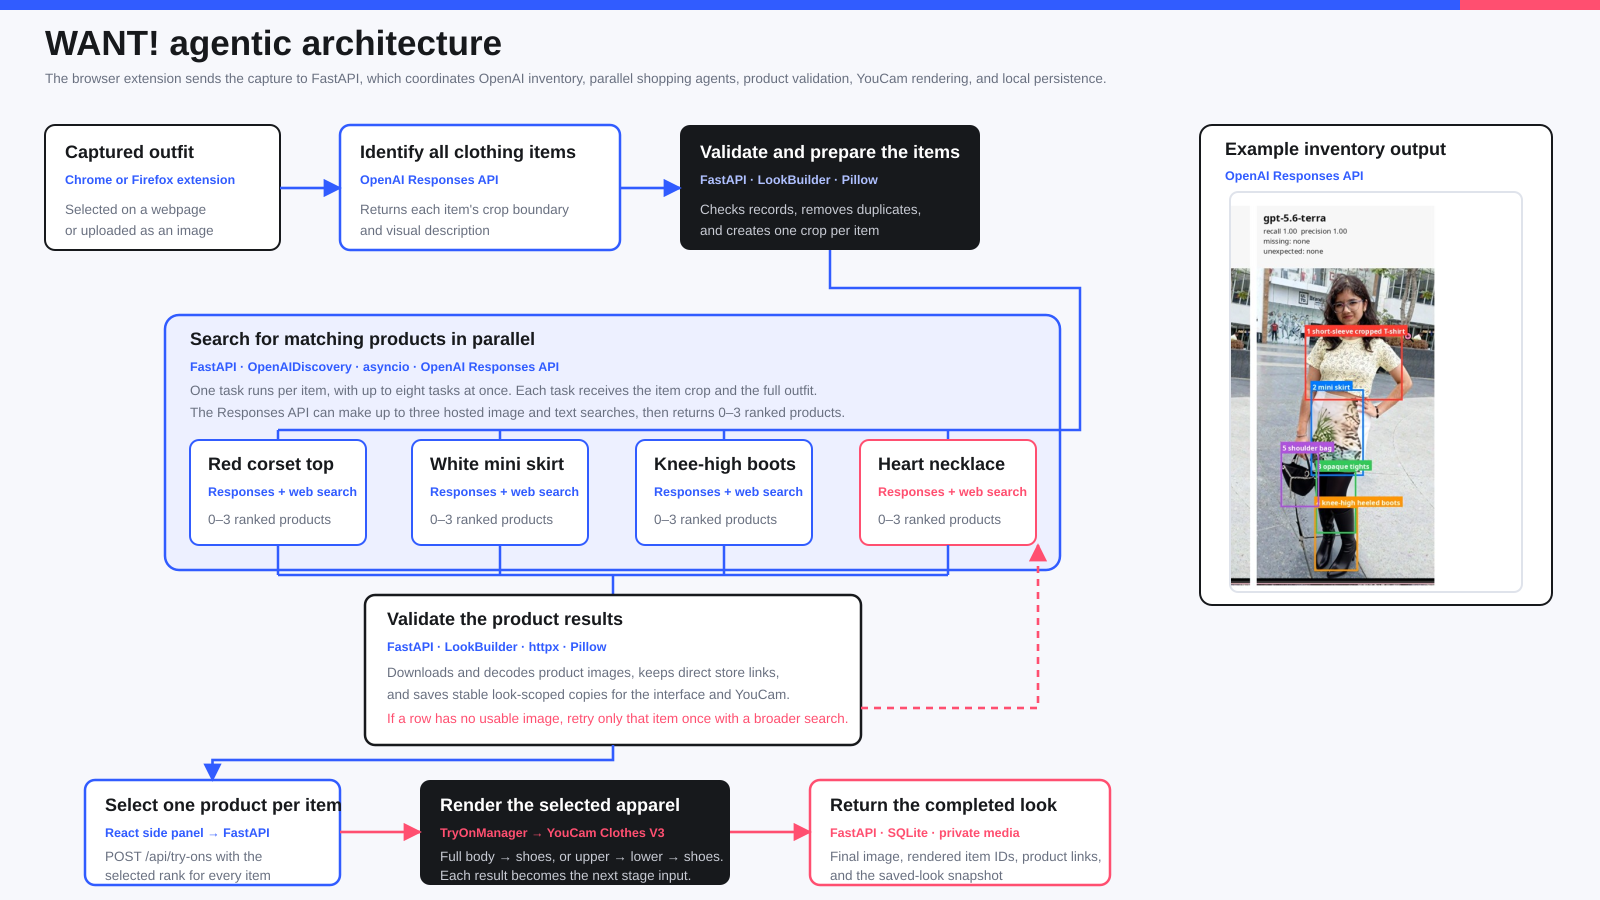
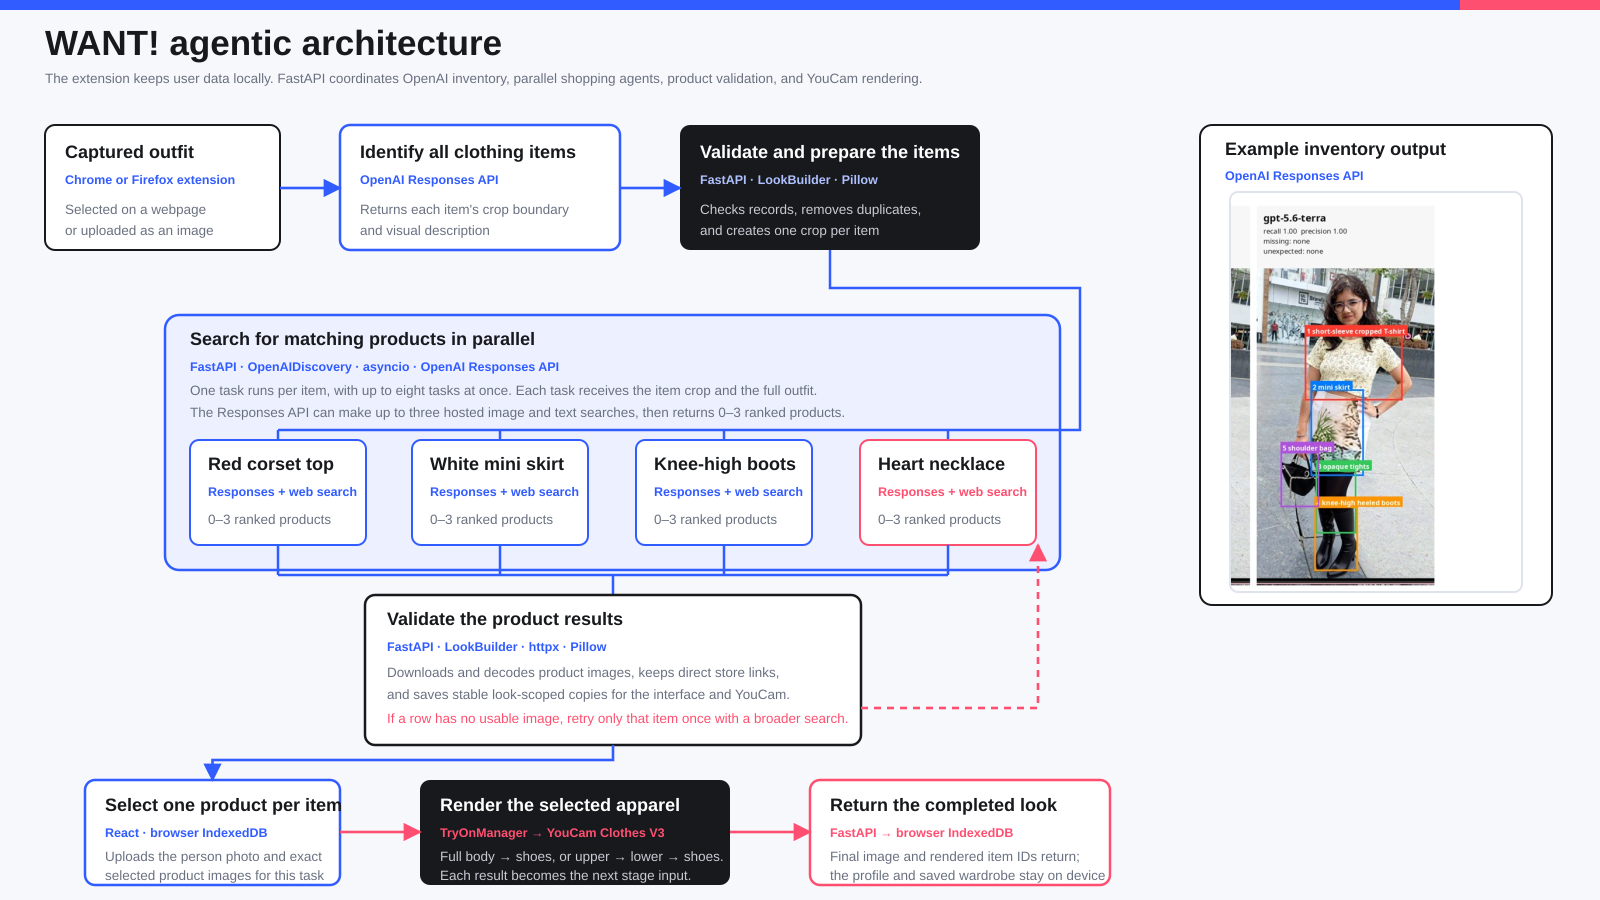
docs: explain hosted judge workflow

Changed region(s): [[0.0625, 0.0622, 0.6875, 0.0933], [0.5312, 0.9022, 0.6875, 0.9956], [0.0625, 0.9022, 0.1875, 0.9956]]

diff --git a/README.md b/README.md
@@ -18,11 +18,21 @@
     <td align="center"><img src="apps/extension/public/onboarding/get.png" width="230" alt="Get the real products in the outfit"></td>
   </tr>
   <tr>
-    <td align="center"><strong>Grab the look</strong><br>Box an outfit on any page or upload an image.</td>
+    <td align="center"><strong>Grab a look</strong><br>Box an outfit on any page or upload an image.</td>
     <td align="center"><strong>Try it on</strong><br>See the selected clothing on your own photo.</td>
     <td align="center"><strong>Get the outfit</strong><br>Open real products directly at their stores.</td>
   </tr>
 </table>
+
+## Try WANT! without local setup
+
+Use the one-minute Chrome installer; no backend or API-key setup is required.
+
+1. Open the **[WANT! installer](https://snowsadh.github.io/want/)**.
+2. Download the macOS or Windows installer and approve the unpacked extension
+   in Chrome.
+3. Add a clear full-body photo once. Press **Alt+W** to open or close WANT! on
+   any webpage.
 
 ## The internet is the inspiration. WANT! is the fitting room.
 
@@ -55,10 +65,11 @@ The screenshots should be actual WANT! UI from one successful run, not mockups.
 ## The agentic workflow behind WANT!
 
 The user gives WANT! one goal, **recreate this look on me**, rather than a list
-of products to search. A local FastAPI service carries that goal through OpenAI
-visual inventory and concurrent product discovery, local evidence validation,
-the user's exact selections, YouCam Clothes V3 rendering, and private local
-persistence.
+of products to search. A FastAPI processing service carries that goal through
+OpenAI visual inventory and concurrent product discovery, local evidence
+validation, the user's exact selections, and YouCam Clothes V3 rendering. The
+extension keeps the user's photo and saved wardrobe privately in browser
+storage.
 
 <p align="center">
   <img src="docs/architecture.png" width="850" alt="WANT! agentic architecture showing the extension, FastAPI services, OpenAI inventory and parallel shopping agents, product validation, YouCam Clothes V3, and private persistence">
@@ -72,13 +83,10 @@ persistence.
 > render completed in 43.3 seconds. This sits alongside automated backend tests
 > and repeated browser-to-try-on runs.
 
-## Run WANT! locally
+## Run WANT! locally for development
 
-WANT! uses the same local FastAPI service for a Chrome side panel or Firefox
-sidebar. The browser builds live on dedicated branches:
-
-- [`main`](https://github.com/snowsadh/want/tree/main) for Chrome
-- [`firefox`](https://github.com/snowsadh/want/tree/firefox) for Firefox
+One shared extension source builds a Chrome side panel and a Firefox sidebar.
+For local development, both connect to the same local FastAPI service.
 
 ### Requirements
 
@@ -92,8 +100,6 @@ sidebar. The browser builds live on dedicated branches:
 ```bash
 git clone https://github.com/snowsadh/want.git
 cd want
-git switch main       # Chrome
-# or: git switch firefox
 ```
 
 ### 2. Configure the providers
@@ -132,13 +138,13 @@ uv run uvicorn apps.api.app.main:app --host 127.0.0.1 --port 8000
 
 1. Open `chrome://extensions`.
 2. Enable **Developer mode**.
-3. Select **Load unpacked** and choose `apps/extension/dist`.
+3. Select **Load unpacked** and choose `apps/extension/dist/chrome`.
 
 #### Firefox
 
 1. Open `about:debugging#/runtime/this-firefox`.
 2. Select **Load Temporary Add-on**.
-3. Choose `apps/extension/dist/manifest.json`.
+3. Choose `apps/extension/dist/firefox/manifest.json`.
 
 Open WANT! from the toolbar and add a clear full-body photo. Visit a page with
 an outfit, press **Alt+W**, choose **Pick a look**, and draw around it. The
@@ -148,12 +154,12 @@ shortcut can be changed at `chrome://extensions/shortcuts` or in Firefox under
 ## Privacy
 
 - WANT! acts only after a deliberate capture, upload, search, or try-on request.
-- API keys stay in the local FastAPI environment and out of the extension.
-- Photos, captures, product media, generated images, and saved looks stay in
-  ignored local directories and SQLite rather than a public feed.
-
-Read the full [privacy policy](docs/privacy-policy.md) for provider and data
-handling details.
+- OpenAI and YouCam API keys stay in the FastAPI environment and out of source
+  control; they are never bundled into the extension.
+- The fitting-room photo and saved looks live in the extension's private
+  IndexedDB storage. They are not stored in a shared cloud account or feed.
+- A requested analysis or try-on sends the required images to the FastAPI
+  service and its named providers. Server media is transient task data.
 
 <details>
 <summary><strong>Technical details and repository map</strong></summary>
@@ -163,11 +169,12 @@ handling details.
 | Layer | Technology | Responsibility |
 | --- | --- | --- |
 | Browser experience | Manifest V3, TypeScript, React, Vite | Capture, profile, product selection, try-on results, and saved looks |
-| Local API | Python 3.12, FastAPI, Pydantic | Server-side keys, request validation, orchestration, and API contracts |
+| Processing API | Python 3.12, FastAPI, Pydantic | Server-side provider keys, request validation, orchestration, and API contracts |
 | Visual inventory and shopping | OpenAI Responses API, hosted image and text search, `asyncio` | Detect every wearable and run one concurrent product shopper per item |
 | Product evidence | `httpx`, Pillow | Validate, decode, and preserve usable product images and links |
 | Virtual try-on | YouCam Clothes V3 | Render the selected supported apparel on the user's photo |
-| Private persistence | SQLite and local media files | Store the profile, captures, products, render stages, and saved looks |
+| Private persistence | Browser IndexedDB | Store the profile, product evidence, final images, and saved looks on the user's device |
+| Transient task media | FastAPI local filesystem | Hold validated images and YouCam stages only while processing a request |
 
 ### Development server
 
@@ -195,8 +202,12 @@ pnpm build
   preferring the original page image when possible.
 - `apps/extension/src/sidepanel/main.tsx` contains the React screens, product
   rows, selection state, try-on result, and saved-look flow.
-- `apps/extension/src/api.ts` is the browser client for the local FastAPI
+- `apps/extension/src/api.ts` is the browser client for the FastAPI
   service; `types.ts` mirrors its response contracts.
+- `apps/extension/src/storage.ts` owns the private IndexedDB profile and saved
+  wardrobe, and copies task images into browser-local data before saving.
+- `apps/web/` contains the judge installer page and downloadable browser
+  packages; it does not contain the application backend.
 - `apps/api/app/main.py` wires the routes and process-lifetime services.
 - `openai_discovery.py` owns the OpenAI Responses inventory and concurrent
   shopping calls; `openai_prompts.py` contains their prompts.
@@ -204,10 +215,12 @@ pnpm build
   decodes product images, retries empty rows, and assembles the product result.
 - `try_on.py` validates the selected ranks and sequences supported garment
   regions through `youcam.py`.
-- `database.py` and `media.py` store the local profile, saved looks, captures,
-  product media, render stages, and final YouCam images.
+- `media.py` validates and writes transient capture, product, person, and render
+  inputs used by the processing pipeline.
 - `contracts.py` defines the backend data contracts; `tests/` protects API,
-  normalization, selection, persistence, and YouCam behavior.
+  normalization, selection, uploaded-image handoff, and YouCam behavior.
+- `Dockerfile` and `railway.toml` deploy only the FastAPI processing service;
+  browser profiles and saved looks remain on the user's device.
 
 The detailed behavior lives in [`docs/product-spec.md`](docs/product-spec.md).
 The accepted runtime and provider evaluation live in

diff --git a/docs/implementation-plan.md b/docs/implementation-plan.md
@@ -1,66 +1,60 @@
 # WANT! — Remaining Demo Plan
 
-> The OpenAI-to-YouCam vertical slice is implemented. Only demo verification and
-> presentation work remains.
+> The hosted-processing refactor is implemented. Only deployment, judge-package
+> publication and submission presentation remain.
 
 ## Current architecture
 
 ```text
-Chrome MV3 side panel
-    -> FastAPI modular monolith
+Chrome side panel or Firefox sidebar
+    -> browser IndexedDB owns the profile and saved wardrobe
+    -> hosted FastAPI processing service
     -> OpenAI visual inventory
     -> concurrent OpenAI image + text shopping
-    -> arrow-selected product combination
+    -> browser-local copy of validated evidence
+    -> user-selected product images + person photo uploaded for the task
     -> YouCam Clothes V3
-    -> SQLite saved looks + local media
+    -> final image copied back into IndexedDB
 ```
 
 The five-reference provider gate passed with 30 detected items, 38 products,
 two fallbacks, 34.7 seconds mean latency and 49.1 seconds maximum latency. A
-remote returned product URL also completed a real YouCam render in 43.3 seconds.
+real YouCam render completed in 43.3 seconds.
 
-## Existing API
+## Processing API
 
 ```text
-GET    /api/health
-GET    /api/profile
-PUT    /api/profile
-POST   /api/profile/photo
-POST   /api/looks
-POST   /api/try-ons
-GET    /api/try-ons/{job_id}
-POST   /api/saved-looks
-GET    /api/saved-looks
-GET    /api/saved-looks/{saved_id}
-DELETE /api/saved-looks/{saved_id}
+GET  /api/health
+POST /api/looks
+POST /api/try-ons
+GET  /api/try-ons/{job_id}
 ```
 
-Do not add endpoints for the hackathon demo.
+The API has no profile or saved-look endpoints. Browser IndexedDB owns durable
+user state; FastAPI owns provider credentials and short-lived task media.
+
+## Completed technical work
+
+- FastAPI is deployed to Railway with serverless sleeping and server-side
+  OpenAI and YouCam credentials.
+- Chrome and Firefox build from one extension source against a configurable API
+  origin.
+- macOS and Windows Chrome installers are packaged for the judge page.
+- The API suite, Ruff, TypeScript checks, both browser builds and all judge ZIPs
+  pass verification.
 
 ## Remaining work
 
-### Browser verification
-
-- Reload `apps/extension/dist` in the actual demo Chrome profile.
-- Verify toolbar click and `Alt+W` capture on a normal image and paused video.
-- Verify cancel uploads nothing and screenshot fallback selects the right area.
-- Confirm every detected item gets one row and arrows wrap through its options.
-- Confirm changing an option clears an older try-on preview.
-
-### End-to-end rehearsal
-
-- One clean capture-to-saved-YouCam run passed on 2026-08-17.
-- Upload the final demo full-body photo.
-- Run the chosen reference from capture through **Try this look** and Save.
-- Confirm the selected ranks—not merely rank one—reach YouCam and the saved look.
-- Confirm unsupported accessories remain links and are not labelled rendered.
-- Complete two more consecutive clean runs inside 1–3 minutes.
+- Publish the judge page from the GitHub Pages workflow.
+- Run each installer on its native operating system when those machines are
+  available.
 
 ### Submission
 
-- Check Git and built extension assets for secrets/private outputs.
-- Record the demo and screenshots with the YouCam transformation visible.
-- Document setup, the agentic item searches and YouCam's contribution.
+- Record the 1–3 minute demo with the YouCam transformation visible.
+- Add the final product screenshots to the README and Devpost submission.
+- Verify the public repository and packaged extension contain no provider keys,
+  personal photos, private captures, or generated outputs.
 
 ## Verification commands
 
@@ -73,7 +67,6 @@ pnpm build
 
 ## Deferred
 
-Delivery filtering, product-page revalidation, accessory VTO, authentication,
-social features, a product database, vector search, scrapers,
-Redis, queues, workers and extra services remain out of scope unless a measured
-demo failure requires one.
+Account sync, delivery filtering, accessory VTO, social features, a product
+database, vector search, scrapers, Redis, queues and distributed workers remain
+outside the hackathon MVP.

diff --git a/docs/product-spec.md b/docs/product-spec.md
@@ -90,11 +90,12 @@ hosiery, obvious underlayers, leg warmers, tied waist layers and unsupported
 accessories remain shopping-only recommendations. Record and label only item IDs
 actually rendered.
 
-Each completed YouCam stage is persisted locally and becomes the next stage
-source. The final persisted image—not a temporary provider URL—is shown and
-saved. If a retailer blocks YouCam from downloading one selected reference,
-preserve any successful stages, keep that product shoppable but label it not in
-the preview, and fail the try-on only when no selected garment can be rendered.
+Before try-on, the extension uploads its browser-local person photo and the
+exact selected, already-validated product images to FastAPI. Each completed
+YouCam stage becomes the next stage source. The extension copies the final
+image into IndexedDB rather than saving a temporary provider URL. Preserve any
+successful stages, label shopping-only pieces honestly, and fail the try-on
+only when no selected garment can be rendered.
 
 ## Results and saved looks
 
@@ -107,12 +108,14 @@ prices, links and source URL so reopening it does not silently change.
 
 ## Privacy and scope
 
-- One local profile; SQLite stores profile metadata and saved snapshots.
-- Local files store private photos, captures and generated images.
+- IndexedDB in the extension stores the profile photo, stable product evidence,
+  final generated images and saved snapshots on the user's device.
+- The hosted FastAPI service has no user database. Its local files are transient
+  processing inputs and outputs, not durable accounts or a shared wardrobe.
 - API keys stay server-side and out of the extension, logs, fixtures and Git.
-- No product catalogue, vector index, Redis, worker, auth, social layer,
-  checkout or separate service. Product images are retained only within their
-  private look snapshot.
+- No product catalogue, vector index, Redis, worker, social layer, checkout or
+  account service exists.
+- Product images are retained durably only inside their browser-local look.
 - Generated imagery is a visual preview, not a claim about physical fit.
 
 ## Demo acceptance

diff --git a/AGENTS.md b/AGENTS.md
@@ -74,8 +74,9 @@ ranking store.
   preview reference instead of hallucinating a product.
 - Search and save meaningful accessories, but never claim an accessory appears
   in the YouCam output unless that render was actually performed and verified.
-- SQLite/local persistence is sufficient. No Redis, Celery, vector database, or
-  distributed services for the hackathon MVP.
+- Browser IndexedDB owns the profile and saved wardrobe. The hosted API keeps
+  only transient task media; no SQLite, Redis, Celery, vector database, or
+  distributed services are needed for the hackathon MVP.
 - API keys stay server-side and out of extension bundles, logs, fixtures, and
   committed files.
 

diff --git a/docs/ui-ux-direction.md b/docs/ui-ux-direction.md
@@ -166,7 +166,8 @@ looks allow sync across devices. It is not required for the hackathon flow.
 
 For the current MVP:
 
-- keep the existing local profile, local media, SQLite and local Saved Looks;
+- keep the existing browser-local profile, generated images and Saved Looks in
+  extension IndexedDB;
 - do not imply that an email address creates cloud sync when it does not;
 - email may be omitted or stored only as clearly local profile metadata.
 
